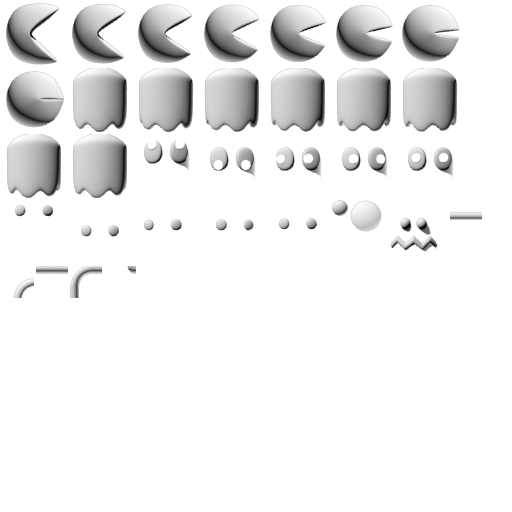
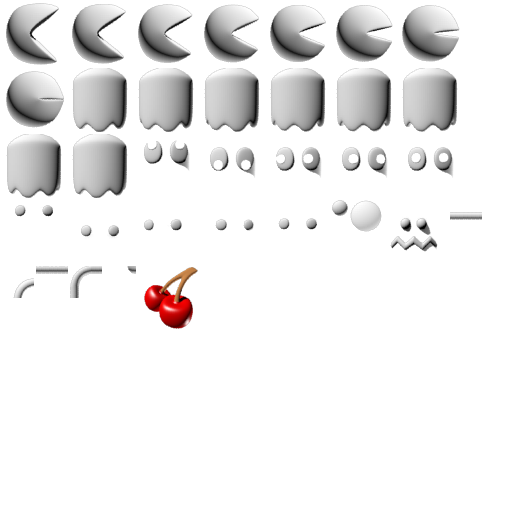
And the cherry appears!

Changed region(s): [[0.2812, 0.5, 0.375, 0.6562]]

diff --git a/Pacman/Scenes/LevelScene.cs b/Pacman/Scenes/LevelScene.cs
@@ -40,6 +40,7 @@ namespace Pacman.Scenes
         Timer _pauseTimer;
         Ghost _eatenGhost;
         LevelSettings _levelSettings;
+        BonusFruit _bonusFruit;
 
         public LevelScene()
             : base("Level")
@@ -67,7 +68,7 @@ namespace Pacman.Scenes
             if (Enabled)
             {
                 base.Update(gameTime);
-                if (InputHelper.IsPressed(Keys.Escape))
+                if (InputHelper.IsPressed(Keys.Q) || InputHelper.IsPressed(Keys.Escape))
                     Stage.GotoScene("Menu");
                 else if (InputHelper.IsPressed(Keys.R))
                     RestartLevel();
@@ -471,6 +472,8 @@ namespace Pacman.Scenes
         private void OnFirstBonusFruit()
         {
             Debug.WriteLine("First bonus fruit appears");
+            _bonusFruit = new BonusFruit(_tileGrid);
+            _tileGrid.AddComponent(_bonusFruit);
             _bonusFruitCounter.SetNewLimit(170);
             _bonusFruitCounter.DotLimitReached -= OnFirstBonusFruit;
             _bonusFruitCounter.DotLimitReached += OnSecondBonusFruit;
@@ -479,6 +482,8 @@ namespace Pacman.Scenes
         private void OnSecondBonusFruit()
         {
             Debug.WriteLine("Second bonus fruit appears");
+            _bonusFruit = new BonusFruit(_tileGrid);
+            _tileGrid.AddComponent(_bonusFruit);
             _bonusFruitCounter.SetNewLimit(1000);
             _bonusFruitCounter.DotLimitReached -= OnSecondBonusFruit;
         }

diff --git a/Pacman/Scenes/AnimationTest.cs b/Pacman/Scenes/AnimationTest.cs
@@ -96,7 +96,7 @@ namespace Pacman.Scenes
             for (var i = 0; i < _allSprites.Count; i++)
             {
                 AddComponent(_allSprites[i]);
-                _allSprites[i].Translate((i % itemsPerRow) * spacing, ((float)Math.Floor((decimal)i / itemsPerRow) * spacing));
+                _allSprites[i].Translate((i % itemsPerRow) * spacing, ((float)Math.Floor((double)i / itemsPerRow) * spacing));
                 //_allSprites[i].Resize(0.5f);
             }
         }
@@ -104,11 +104,11 @@ namespace Pacman.Scenes
         public override void Update(Microsoft.Xna.Framework.GameTime gameTime)
         {
             base.Update(gameTime);
-            if (InputHelper.IsPressed(Keys.T) || InputHelper.IsPressed(Keys.Escape))
+            if (InputHelper.IsPressed(Keys.T) || InputHelper.IsPressed(Keys.Q))
             {
                 Stage.GotoScene("Menu");
             }
-            else if (InputHelper.IsPressed(Keys.Escape))
+            else if (InputHelper.IsPressed(Keys.Q) || InputHelper.IsPressed(Keys.Escape))
             {
                 Stage.GameObject.Exit();
             }

diff --git a/Pacman/Objects/Ghost.cs b/Pacman/Objects/Ghost.cs
@@ -146,7 +146,7 @@ namespace Pacman.Objects
 
         public void OnFlashingFrightenedGhostState()
         {
-            Pupils.Visible = false; 
+            Pupils.Visible = false;
             Body.Tint = Color.White;
             Eyes.Tint = Color.Red;
             Eyes.ChangeIndex(28);
@@ -230,7 +230,7 @@ namespace Pacman.Objects
             Steering.Enabled = true;
             SnapToTarget.Enabled = true;
             Steering.OnArriveAtTarget += OnLeaveHomeFirstArrive;
-            
+
             if (!IsFrightened)
                 ChangeState(GhostState.NORMAL);
         }
@@ -247,7 +247,11 @@ namespace Pacman.Objects
         {
             Steering.OnArriveAtTarget -= OnLeaveHomeSecondArrive;
             ImmediateTarget.ChangeState(Target.IMMEDIATE, _tileGrid, this);
-            ChangeState(_levelState);
+            
+            if (IsFrightened)
+                ChangeState(AIState.WANDER);
+            else
+                ChangeState(_levelState);
         }
 
         public virtual void OnChaseState()

diff --git a/Pacman/Objects/BonusFruit.cs b/Pacman/Objects/BonusFruit.cs
@@ -1,0 +1,35 @@
+using System;
+using System.Collections.Generic;
+using System.Linq;
+using System.Text;
+using Pacman.Engine.Display;
+using Pacman.Engine.Helpers;
+
+namespace Pacman.Objects
+{
+    class BonusFruit : SpriteObject
+    {
+        private Timer _appearTimer;
+
+        public BonusFruit(TileGrid _tileGrid) : base("pacman", 34)
+        {
+            Random random = new Random();
+            _appearTimer = new Timer(random.Next(9000, 10000));
+            AddComponent(_appearTimer);
+            _appearTimer.ClockReachedLimit += OnAppearTimerLimit;
+            Translate(_tileGrid.GetPosition(13.5f, 17));
+        }
+
+        private void OnAppearTimerLimit()
+        {
+            _appearTimer.ClockReachedLimit -= OnAppearTimerLimit;
+            RemoveSelf();
+        }
+
+        public override void RemoveSelf()
+        {
+            _appearTimer.ClockReachedLimit -= OnAppearTimerLimit;
+            base.RemoveSelf();
+        }
+    }
+}

diff --git a/Pacman/Objects/Timer.cs b/Pacman/Objects/Timer.cs
@@ -15,7 +15,8 @@ namespace Pacman.Objects
         public delegate void ClockReachedLimitHandler();
         public event ClockReachedLimitHandler ClockReachedLimit = delegate { };
 
-        public Timer(float limit = 0)
+        public Timer() : this(0) { }
+        public Timer(float limit)
         {
             this.limit = limit;
             Start();

diff --git a/Pacman/Scenes/MenuScene.cs b/Pacman/Scenes/MenuScene.cs
@@ -64,7 +64,7 @@ namespace Pacman.Scenes
             {
                 Stage.GotoScene("AnimationTest");
             }
-            else if (InputHelper.IsPressed(Keys.Escape))
+            else if (InputHelper.IsPressed(Keys.Q) || InputHelper.IsPressed(Keys.Escape))
             {
                 Stage.GameObject.Exit();
             }
